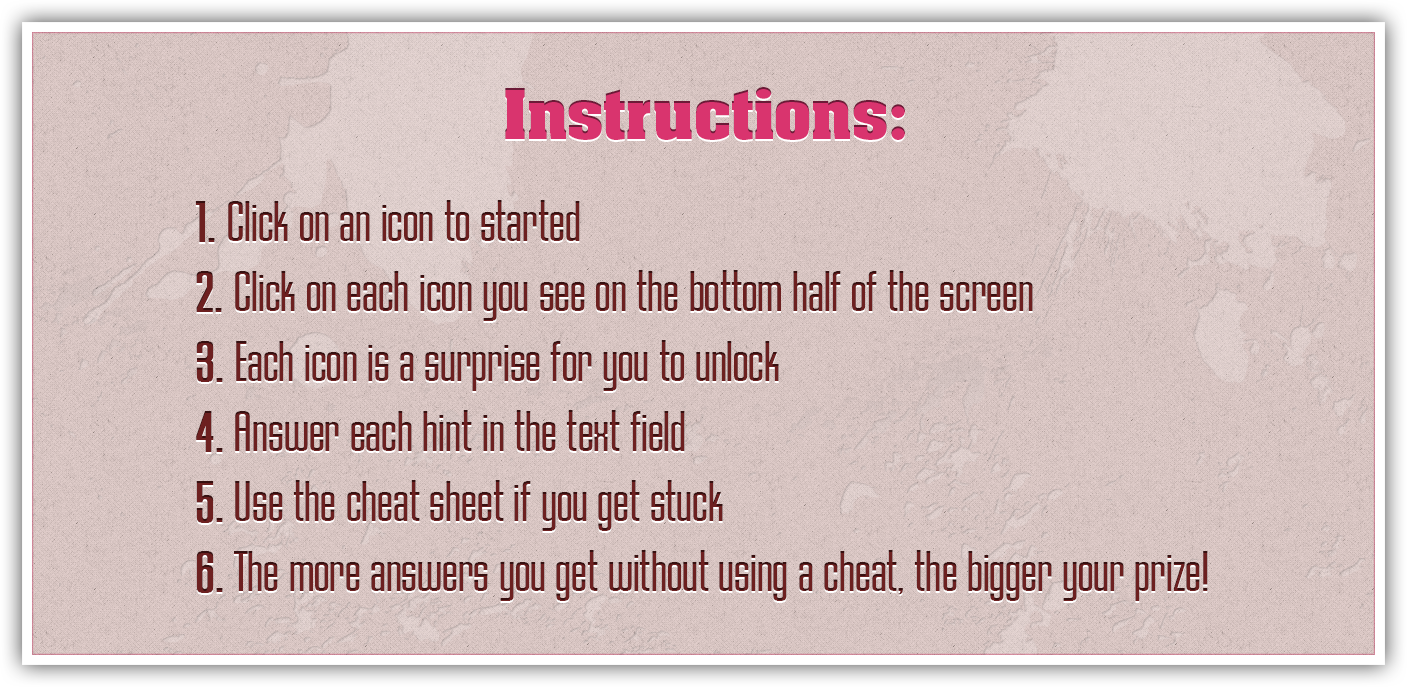
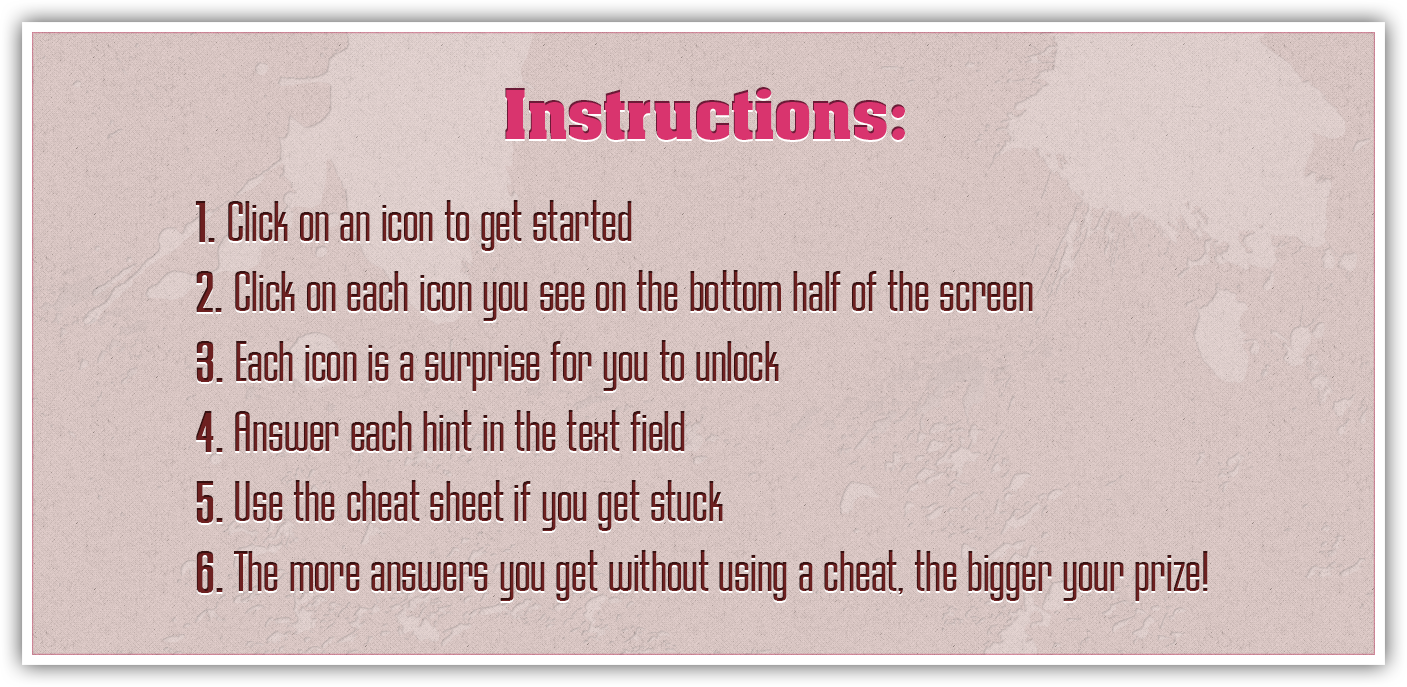
tg

Changed region(s): [[0.3362, 0.2751, 0.4584, 0.3668]]

diff --git a/c2runtime.js b/c2runtime.js
@@ -14867,7 +14867,7 @@ cr.getProjectModel = function() { return [
 		[],
 		0,
 		0,
-		["images/instructions.png", 682262, 0],
+		["images/instructions.png", 687767, 0],
 		null,
 		[
 		],
@@ -16058,6 +16058,20 @@ cr.getProjectModel = function() { return [
 		"Event sheet 1",
 		[
 		[
+			1,
+			"btnHelpClicked",
+			0,
+			0,
+false,false,9652335183355342,false
+		]
+,		[
+			1,
+			"InstructionsOpened",
+			0,
+			0,
+false,false,4229594298009185,false
+		]
+,		[
 			1,
 			"Video5ByButton",
 			0,
@@ -19771,6 +19785,46 @@ false,false,3240496362522863,false
 			],
 			[
 			[
+				-1,
+				cr.system_object.prototype.acts.SetVar,
+				null,
+				4499226215461369,
+				false
+				,[
+				[
+					11,
+					"InstructionsOpened"
+				]
+,				[
+					7,
+					[
+						0,
+						1
+					]
+				]
+				]
+			]
+,			[
+				-1,
+				cr.system_object.prototype.acts.SetVar,
+				null,
+				4654993681662827,
+				false
+				,[
+				[
+					11,
+					"btnHelpClicked"
+				]
+,				[
+					7,
+					[
+						0,
+						1
+					]
+				]
+				]
+			]
+,			[
 				13,
 				cr.plugins_.Sprite.prototype.acts.SetAnimFrame,
 				null,
@@ -19941,6 +19995,46 @@ false,false,3240496362522863,false
 				[
 					3,
 					1
+				]
+				]
+			]
+,			[
+				-1,
+				cr.system_object.prototype.acts.SetVar,
+				null,
+				2276083389072289,
+				false
+				,[
+				[
+					11,
+					"InstructionsOpened"
+				]
+,				[
+					7,
+					[
+						0,
+						0
+					]
+				]
+				]
+			]
+,			[
+				-1,
+				cr.system_object.prototype.acts.SetVar,
+				null,
+				8742897210140242,
+				false
+				,[
+				[
+					11,
+					"btnHelpClicked"
+				]
+,				[
+					7,
+					[
+						0,
+						0
+					]
 				]
 				]
 			]
@@ -25483,6 +25577,193 @@ false,false,3240496362522863,false
 				[
 					11,
 					"quiz5Opened"
+				]
+,				[
+					7,
+					[
+						0,
+						0
+					]
+				]
+				]
+			]
+			]
+		]
+,		[
+			0,
+			null,
+			false,
+			null,
+			7966858297118015,
+			[
+			[
+				4,
+				cr.plugins_.Mouse.prototype.cnds.OnObjectClicked,
+				null,
+				1,
+				false,
+				false,
+				false,
+				3474998708871531,
+				false
+				,[
+				[
+					3,
+					0
+				]
+,				[
+					3,
+					0
+				]
+,				[
+					4,
+					45
+				]
+				]
+			]
+,			[
+				-1,
+				cr.system_object.prototype.cnds.CompareVar,
+				null,
+				0,
+				false,
+				false,
+				false,
+				8413716144699399,
+				false
+				,[
+				[
+					11,
+					"InstructionsOpened"
+				]
+,				[
+					8,
+					0
+				]
+,				[
+					7,
+					[
+						0,
+						1
+					]
+				]
+				]
+			]
+,			[
+				-1,
+				cr.system_object.prototype.cnds.CompareVar,
+				null,
+				0,
+				false,
+				false,
+				false,
+				9639863455023439,
+				false
+				,[
+				[
+					11,
+					"btnHelpClicked"
+				]
+,				[
+					8,
+					0
+				]
+,				[
+					7,
+					[
+						0,
+						1
+					]
+				]
+				]
+			]
+			],
+			[
+			[
+				45,
+				cr.plugins_.TiledBg.prototype.acts.SetVisible,
+				null,
+				2224956728619071,
+				false
+				,[
+				[
+					3,
+					0
+				]
+				]
+			]
+,			[
+				26,
+				cr.plugins_.TiledBg.prototype.acts.SetOpacity,
+				null,
+				2548922297876974,
+				false
+				,[
+				[
+					0,
+					[
+						0,
+						0
+					]
+				]
+				]
+			]
+,			[
+				26,
+				cr.plugins_.TiledBg.prototype.acts.SetVisible,
+				null,
+				7703052624194313,
+				false
+				,[
+				[
+					3,
+					0
+				]
+				]
+			]
+,			[
+				20,
+				cr.plugins_.TextBox.prototype.acts.SetVisible,
+				null,
+				6364443052317192,
+				false
+				,[
+				[
+					3,
+					1
+				]
+				]
+			]
+,			[
+				-1,
+				cr.system_object.prototype.acts.SetVar,
+				null,
+				677599604456742,
+				false
+				,[
+				[
+					11,
+					"InstructionsOpened"
+				]
+,				[
+					7,
+					[
+						0,
+						0
+					]
+				]
+				]
+			]
+,			[
+				-1,
+				cr.system_object.prototype.acts.SetVar,
+				null,
+				8771421742718646,
+				false
+				,[
+				[
+					11,
+					"btnHelpClicked"
 				]
 ,				[
 					7,
